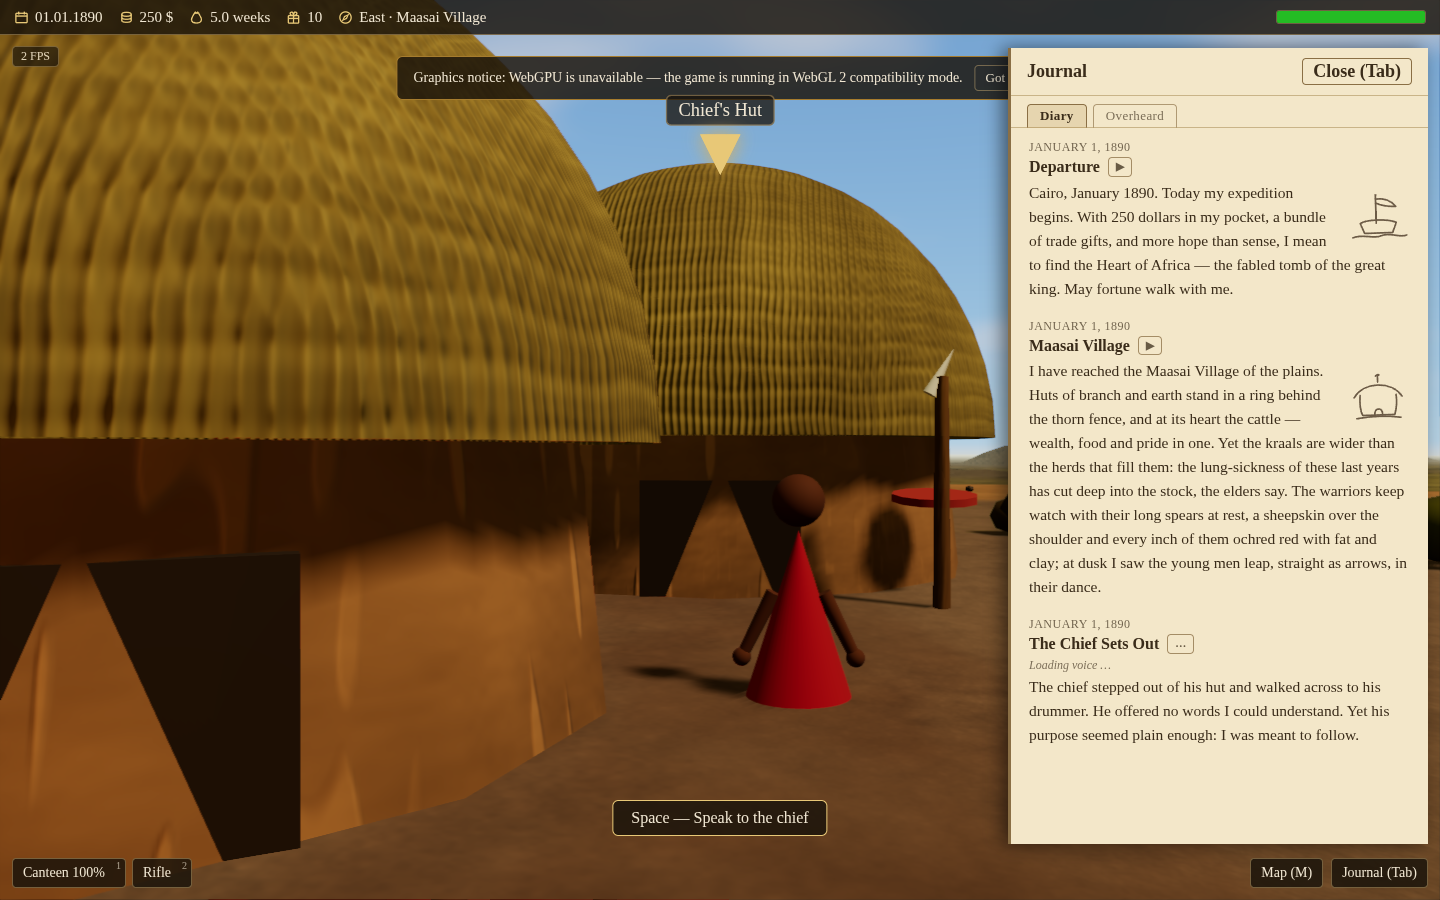
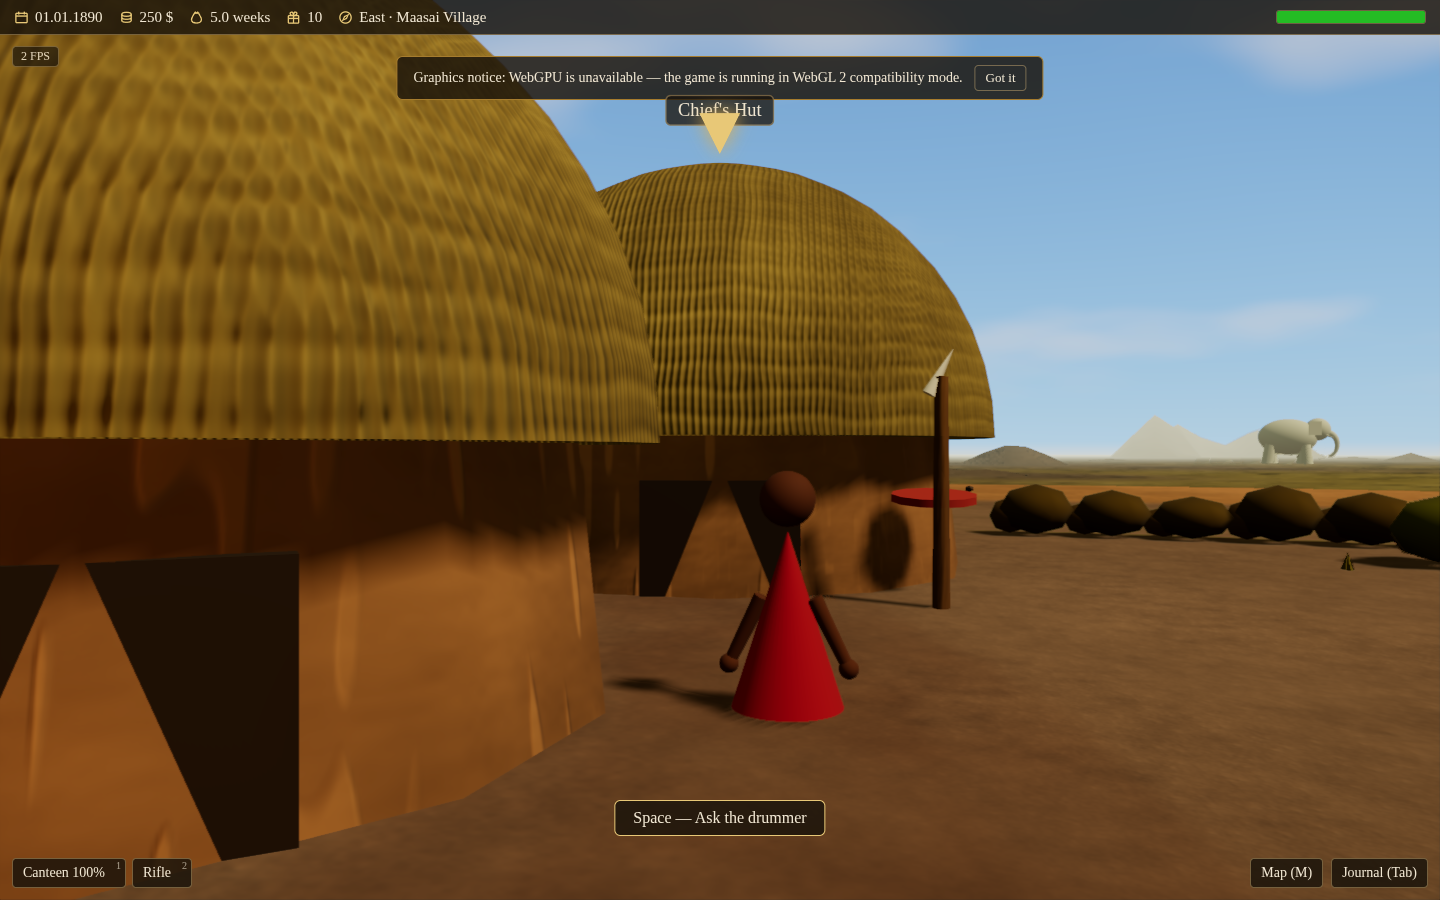
Point the chief evidence at the indoor Nubian meeting
The flow frames now show the Nubian head man answering from his hut and a
journal without a follow-me entry; the walk to the drummer stays Bambara's.

diff --git a/docs/acceptance-evidence.md b/docs/acceptance-evidence.md
@@ -323,10 +323,11 @@ polish.mjs` section `chief-to-drummer` proves he is SEEN walking — part of the
 path behind him, part still in front — and then standing abreast of the drummer
 where the scene really drew him; `scripts/verify/collision.mjs` that his door
 answers its use key from a collision-free standpoint, with the reset to his hut
-checked before the press; `scripts/verify/flow.mjs` photographs the pair from
-the front in `04-chief-outside-his-hut.png`; and the same `polish.mjs` section
-photographs them again in `151-chief-beside-his-drummer.png`, with the drums
-still speaking at the shutter.
+checked before the press; the same `polish.mjs` section photographs the pair
+in `151-chief-beside-his-drummer.png`, with the drums still speaking at the
+shutter. Only Bambara's chief walks out: `scripts/verify/flow.mjs` shows the
+Nubian head man answering from his hut in `04-chief-hut-meeting.png`, with no
+follow-me entry in `05-journal-after-chief-meeting.png`.
 
 THE ERRAND AND ITS ANSWER. The player follows the river upstream in the
 bird's-eye view and digs at the rendered boulder. The find is an inventory item
